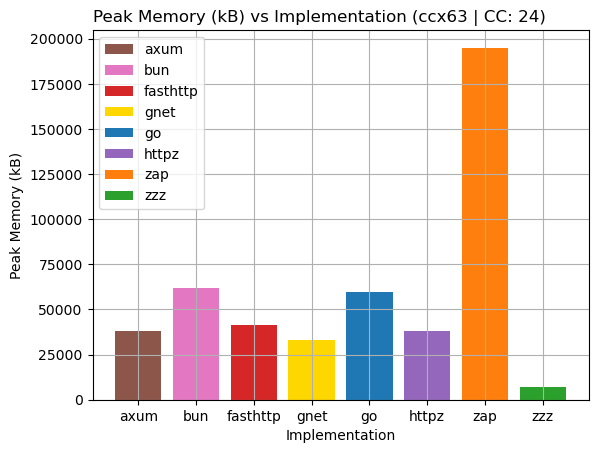
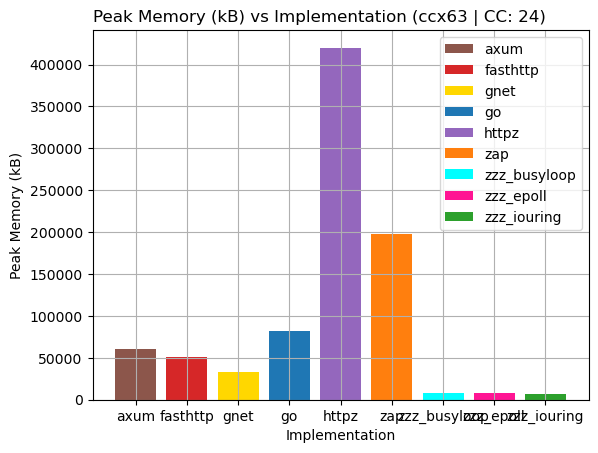
docs: update README

diff --git a/README.md b/README.md
@@ -37,7 +37,7 @@ For more information, look here:
 ## Optimization
 zzz is **very** fast. Through a combination of methods, such as allocation at start up and avoiding thread contention, we are able to extract tons of performance out of a fairly simple implementation. zzz is quite robust currently but is still early stage software. It's currently been running in production, serving my [site](https://muki.gg).
 
-We are nearly as fast as gnet (zzz is 2% slower at 1000 concurrent connections), the fastest plaintext HTTP server according to [TechEmpower](https://www.techempower.com/benchmarks/#hw=ph&test=plaintext&section=data-r22), while consuming only ~21% of the memory that gnet requires.
+With the recent migration to [tardy](https://github.com/mookums/tardy), zzz is about as fast as gnet, the fastest plaintext HTTP server according to [TechEmpower](https://www.techempower.com/benchmarks/#hw=ph&test=plaintext&section=data-r22), while consuming only ~22% of the memory that gnet requires.
 
 ![benchmark (request per sec)](./docs/benchmark/req_per_sec_ccx63_24.png)
 
@@ -47,9 +47,9 @@ We are nearly as fast as gnet (zzz is 2% slower at 1000 concurrent connections),
 
 [Raw Data](./docs/benchmark/memory_ccx63_24.csv)
 
-On the CCX63 instance on Hetzner, we are 66.4% faster than [zap](https://github.com/zigzap/zap) and 77% faster than [http.zig](https://github.com/karlseguin/http.zig). We also utilize less memory, using only ~3% of the memory used by zap and ~18% of the memory used by http.zig.
+On the CCX63 instance on Hetzner with 2000 max connections, we are 70.9% faster than [zap](https://github.com/zigzap/zap) and 83.8% faster than [http.zig](https://github.com/karlseguin/http.zig). We also utilize less memory, using only ~3% of the memory used by zap and ~1.6% of the memory used by http.zig.
 
-zzz can be configured to utilize minimal memory while remaining performant. The provided `minram` example only uses 392 kB!
+zzz can be configured to utilize minimal memory while remaining performant. The provided `minram` example only uses 256 kB (using `io_uring` and musl)!
 
 ## Features
 - Built on top of [Tardy](https://github.com/mookums/tardy), an asynchronous runtime.
